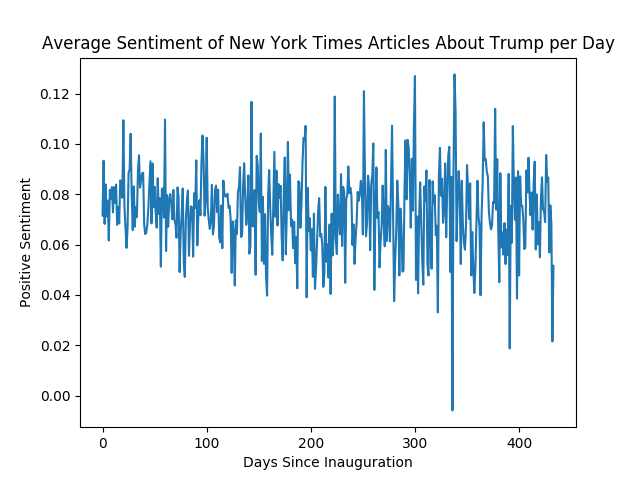
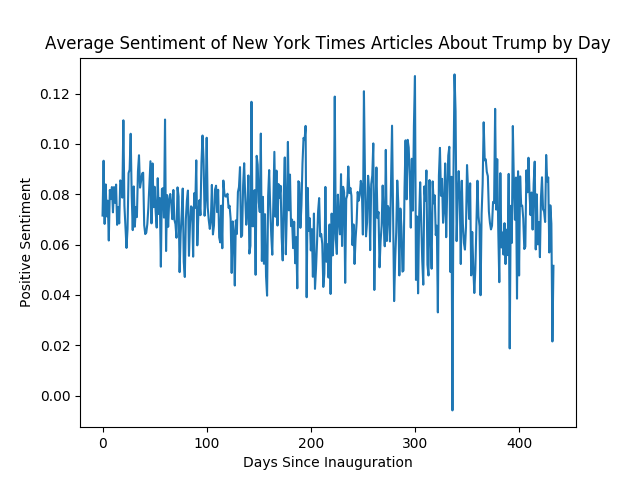
fixed typo in sentiment plots

Changed region(s): [[0.0625, 0.0625, 0.9688, 0.125]]

diff --git a/plot_sentiment.py b/plot_sentiment.py
@@ -11,7 +11,7 @@ days = np.arange(num_days)
 
 plt.figure()
 plt.plot(days, sentiments_by_day)
-plt.title("Average Sentiment of New York Times Articles About Trump per Day")
+plt.title("Average Sentiment of New York Times Articles About Trump by Day")
 plt.xlabel("Days Since Inauguration")
 plt.ylabel("Positive Sentiment")
 plt.savefig("sentiment_plots/by_day")
@@ -24,7 +24,7 @@ days_w = days[w::w] - w
 plt.figure()
 new = [np.mean(sentiments_by_day[j-w:j]) for j in range(w,num_days,w)]
 plt.bar(days_w, new, width=w)
-plt.title("Average Sentiment of New York Times Articles About Trump per Day")
+plt.title("Average Sentiment of New York Times Articles About Trump by Week")
 plt.xlabel("Days Since Inauguration")
 plt.ylabel("Positive Sentiment")
 plt.savefig("sentiment_plots/by_week")
